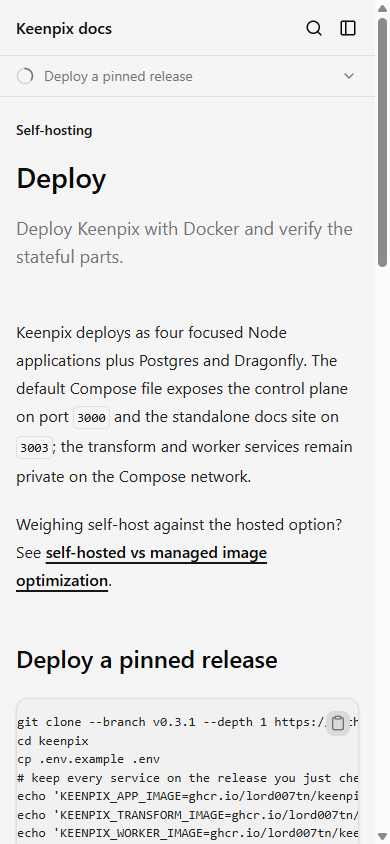
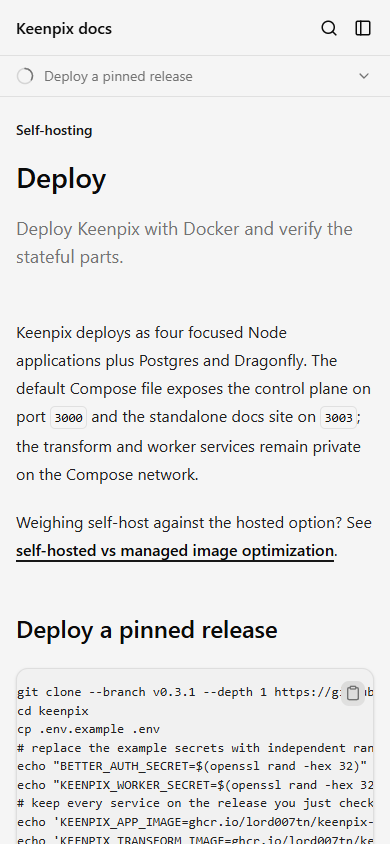
fix(docs): generate required self-host secrets (#79)

diff --git a/apps/docs/src/helpers/releases/self-hosting-release.ts b/apps/docs/src/helpers/releases/self-hosting-release.ts
@@ -5,13 +5,14 @@ export const selfHostingReleaseTag = `v${packageJson.version}`
 export const selfHostingDeployCommand = `git clone --branch ${selfHostingReleaseTag} --depth 1 https://github.com/lord007tn/keenpix.git
 cd keenpix
 cp .env.example .env
+# replace the example secrets with independent random values:
+echo "BETTER_AUTH_SECRET=$(openssl rand -hex 32)" >> .env
+echo "KEENPIX_WORKER_SECRET=$(openssl rand -hex 32)" >> .env
 # keep every service on the release you just checked out:
 echo 'KEENPIX_APP_IMAGE=ghcr.io/lord007tn/keenpix-app:${selfHostingReleaseTag}' >> .env
 echo 'KEENPIX_TRANSFORM_IMAGE=ghcr.io/lord007tn/keenpix-transform:${selfHostingReleaseTag}' >> .env
 echo 'KEENPIX_WORKER_IMAGE=ghcr.io/lord007tn/keenpix-worker:${selfHostingReleaseTag}' >> .env
 echo 'KEENPIX_DOCS_IMAGE=ghcr.io/lord007tn/keenpix-docs:${selfHostingReleaseTag}' >> .env
-# set a strong secret:
-#   BETTER_AUTH_SECRET=$(openssl rand -hex 32)
 # set POSTGRES_PASSWORD, KEENPIX_SUPER_ADMIN_EMAIL, and KEENPIX_SUPER_ADMIN_PASSWORD
 docker compose pull
 docker compose up -d

diff --git a/apps/docs/src/helpers/releases/self-hosting-release.test.ts b/apps/docs/src/helpers/releases/self-hosting-release.test.ts
@@ -37,6 +37,15 @@ describe('self-hosting release commands', () => {
     }
   })
 
+  it('replaces both required inter-service secrets with independent values', () => {
+    expect(selfHostingDeployCommand).toContain(
+      'echo "BETTER_AUTH_SECRET=$(openssl rand -hex 32)" >> .env',
+    )
+    expect(selfHostingDeployCommand).toContain(
+      'echo "KEENPIX_WORKER_SECRET=$(openssl rand -hex 32)" >> .env',
+    )
+  })
+
   it('keeps hard-coded release versions out of the self-hosting page', () => {
     expect(selfHostingPage).toContain('{selfHostingDeployCommand}')
     expect(selfHostingPage).not.toMatch(hardCodedReleasePattern)
